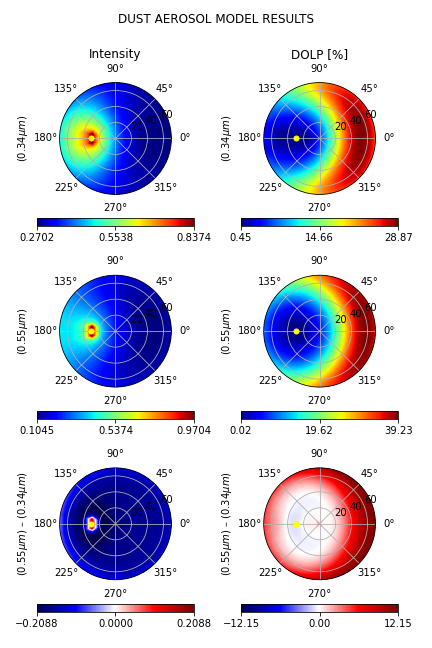
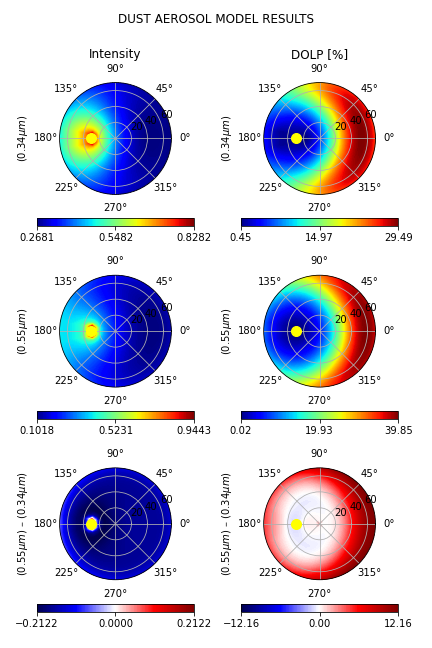
GRASP

diff --git a/Code/GRASP/simulateHemisphereReedEdit.py b/Code/GRASP/simulateHemisphereReedEdit.py
@@ -4,13 +4,13 @@ import numpy as np
 import datetime as dt
 
 # Path to the YAML file you want to use for the aerosol and surface definition
-fwdModelYAMLpath = '/home/cdeleon/ULTRASIP/Code/GRASP/SettingFiles/settings_Dust.yml'
+fwdModelYAMLpath = '/home/cdeleon/ULTRASIP/Code/GRASP/SettingFiles/settings_BiomassBurning.yml'
 
 # paths to your GRASP binary and kernels (replace everything up to grasp_open with the path to your GRASP repository)
 binPathGRASP = '/home/cdeleon/grasp/build/bin/grasp'
 krnlPathGRASP = '/home/cdeleon/grasp/src/retrieval/internal_files'
 
-ttlStr = 'DUST AEROSOL MODEL RESULTS' # Top Title
+ttlStr = 'BIOMASS BURNING AEROSOL MODEL RESULTS' # Top Title
 wvStrFrmt =  '($%4.2f\\mu m$)' # Format of Y-axis labels 
 sza = 30 # solar zenith angle
 wvls = [0.34, 0.550] # wavelengths in μm
@@ -76,7 +76,7 @@ for i in range(2):
         data2D = data[-1].reshape(Nazimth, Nvza)
         dataFullHemisphere = np.vstack([data2D, np.flipud(data2D)]) # mirror symmetric about principle plane
         c = ax[l,i].contourf(theta, r, dataFullHemisphere, v, cmap=clrMap)
-        ax[l,i].plot(np.pi, sza, '.',  color=[1,1,0], markersize=10)
+        ax[l,i].plot(np.pi, sza, '.',  color=[1,1,0], markersize=20)
         cb = plt.colorbar(c, orientation='horizontal', ax=ax[l,i], ticks=ticks)
         ax[l,i].set_ylim([0, r.max()])
         ax[l,i].set_ylabel(labels[-1], labelpad=30)
@@ -85,5 +85,5 @@ ax[0,1].set_title('DOLP [%]')
 plt.suptitle(ttlStr)
 plt.tight_layout(rect=[0.01, 0.01,0.98, 0.98])
 plt.ion()
-plt.savefig('/home/cdeleon/ULTRASIP/Code/GRASP/Plots/dustfig.png')
+plt.savefig('/home/cdeleon/ULTRASIP/Code/GRASP/Plots/bbfig.png')
 plt.show()
